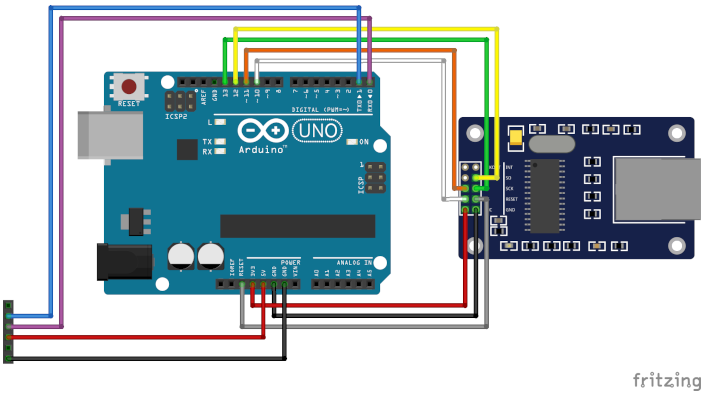
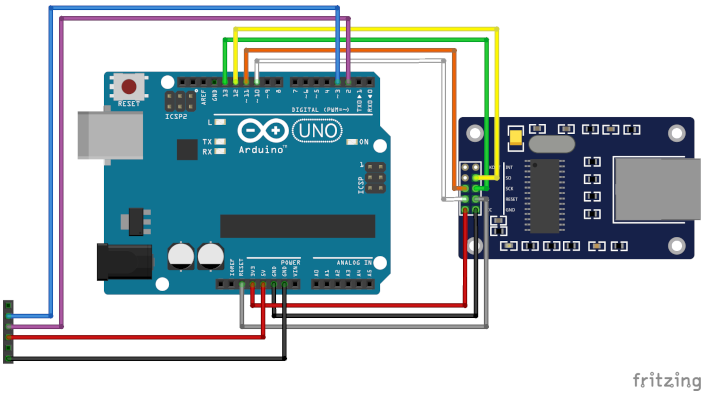
Added SoftwareSerial to avoid hardware conflicts

Changed region(s): [[0.4688, 0.0, 0.5938, 0.2132], [0.3438, 0.731, 0.4062, 0.8223], [0.6562, 0.731, 0.6875, 0.7614]]

diff --git a/README.md b/README.md
@@ -16,13 +16,13 @@ This is a firmware for Arduino+Ethernet module that emulates an Hayes-compatible
 |   VCC    |     3.3V    |
 |   GND    |     GND     |
 
-Optionally you can connect a standard 6-pin serial connector.
+Wiring for a standard 6-pin serial connector.
 
 | Serial | Arduino UNO     |
 | ------ | --------------- |
 |   6    |    N.C.         |
-|   5    |    TXD          |
-|   4    |    RXD          |
+|   5    |    D3           |
+|   4    |    D2           |
 |   3    |    5V (optional)|
 |   2    |    N.C.         |
 |   1    |    GND          |
